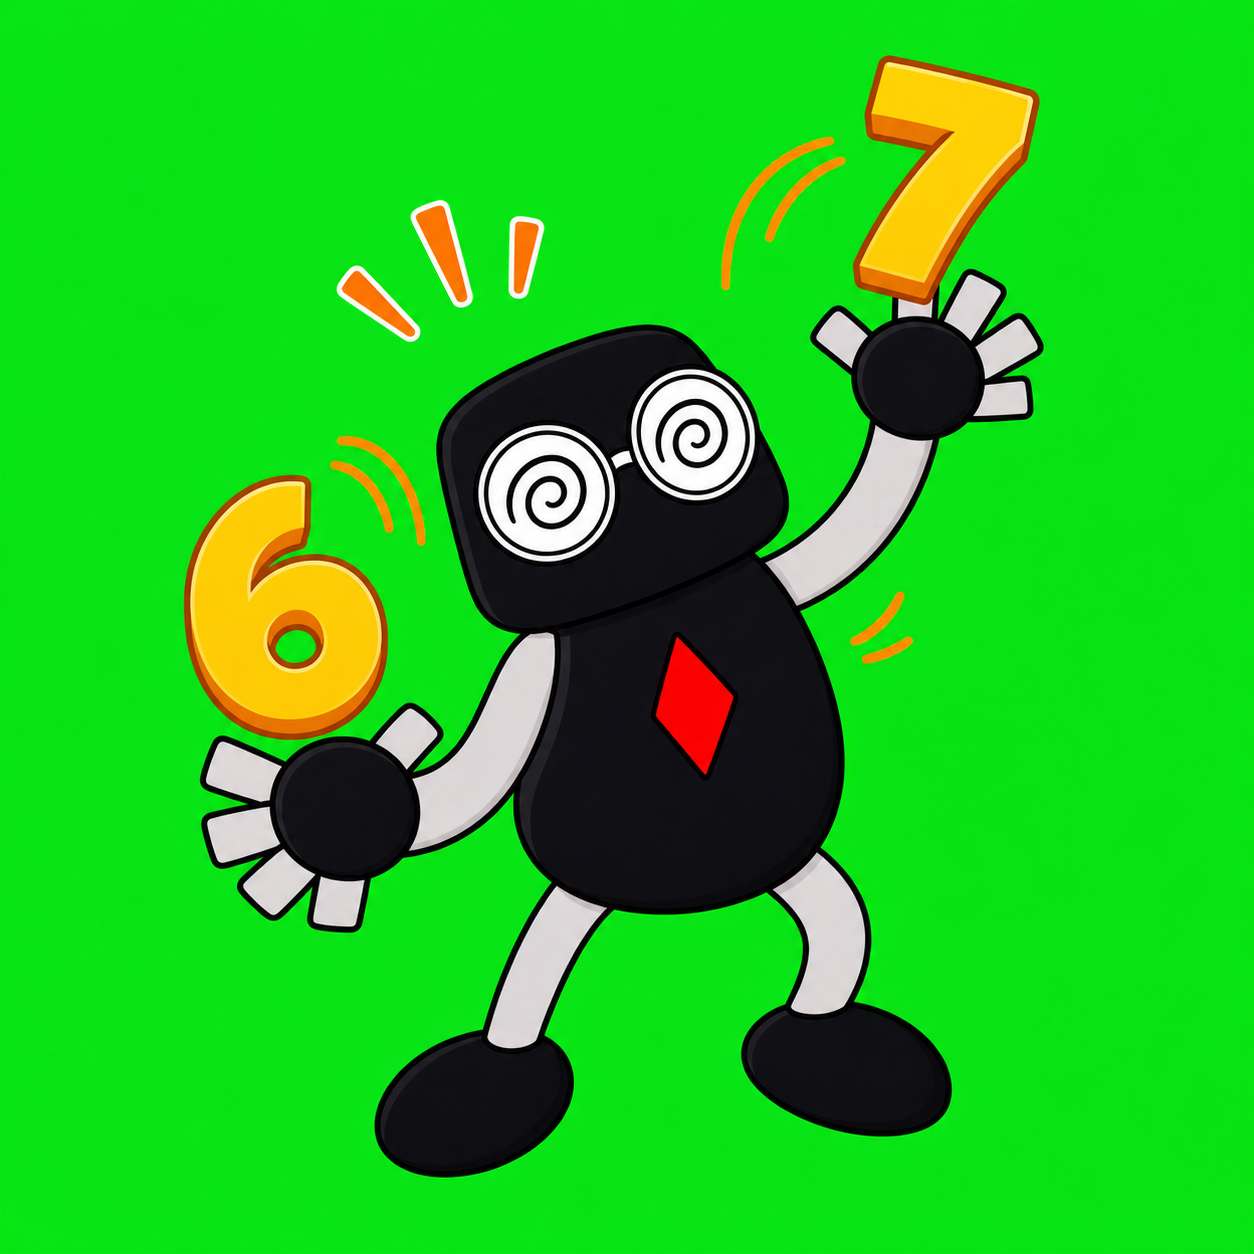
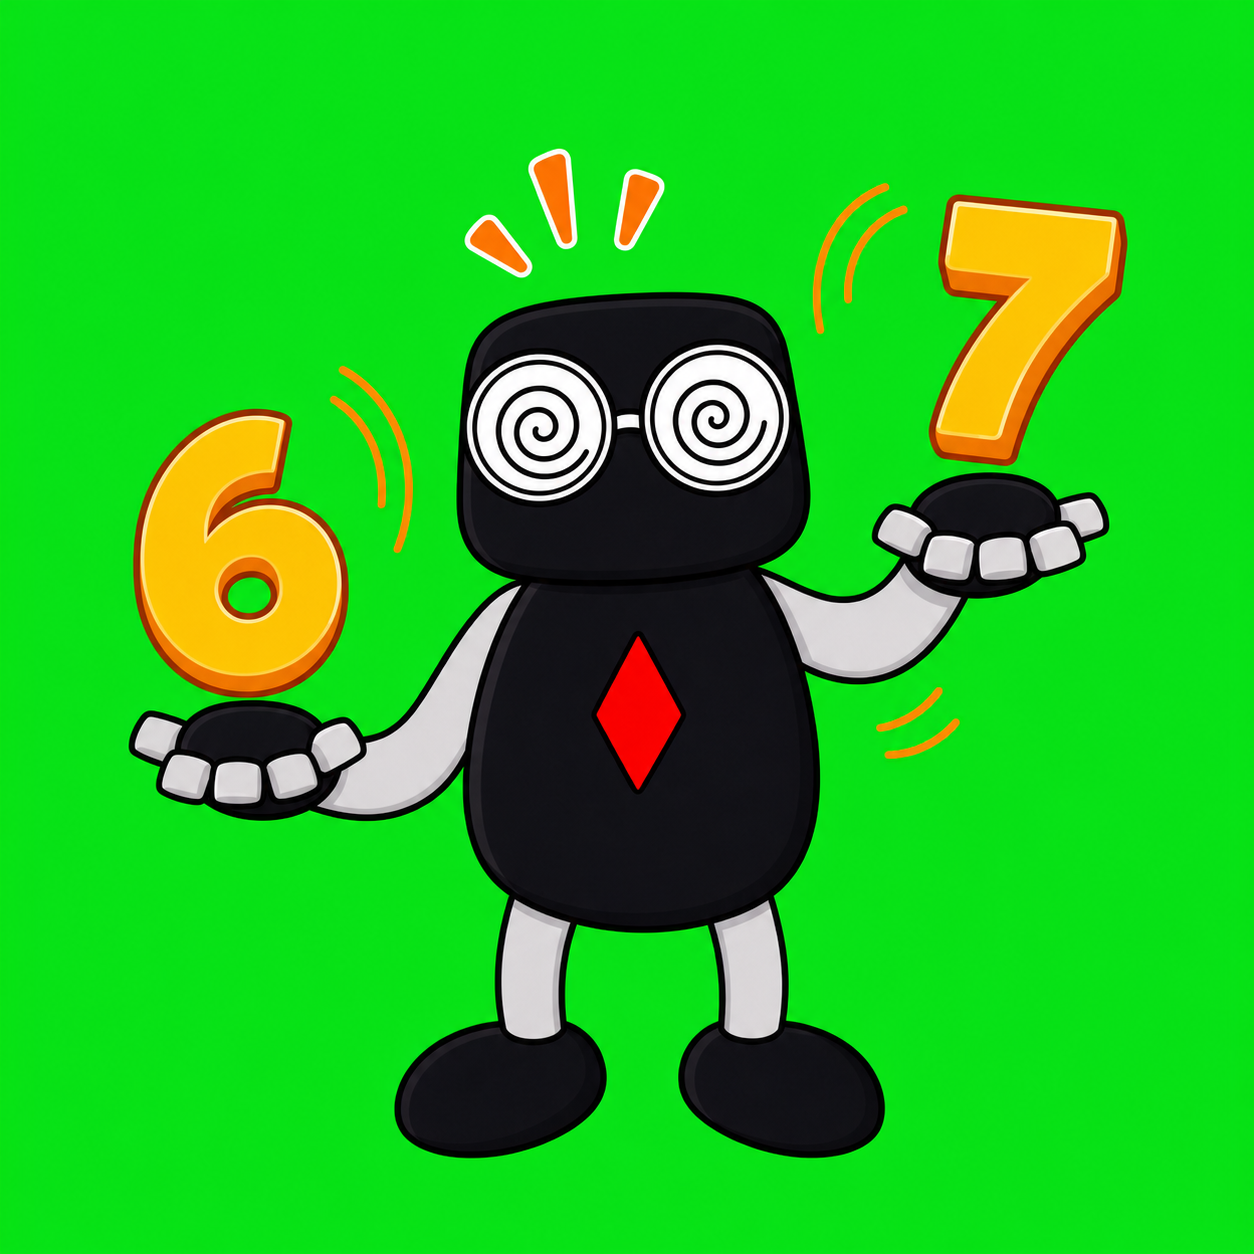
feat: refine sixseven palm-up candidate

Changed region(s): [[0.0933, 0.0311, 0.9019, 0.933], [0.2799, 0.8397, 0.4354, 0.9641]]

diff --git a/archive/generated-iterations/v1-size-blocky-full/NOTES.md b/archive/generated-iterations/v1-size-blocky-full/NOTES.md
@@ -20,4 +20,4 @@ Review notes:
 - `gasp` is still the copied candidate from `v1-size-blocky-fingers`; its hand count and scale are useful, but it still has unwanted internal arm crease lines.
 - `greetings` and `handraise` were updated after review so they no longer share the same silhouette: `greetings` uses a wider side-wave arm angle, while `handraise` uses a near-vertical raised arm and tip-toe/stretch posture.
 - `wrong` was updated after review to make the pose carry the meaning: both arms cross in front of the body, with the red X kept off to the side as emphasis.
-- `sixseven` was added as a 6-7 meme candidate: T Krobot juggles a `6` and `7` with hands at different levels, spiral glasses, and frantic motion marks.
+- `sixseven` was added as a 6-7 meme candidate: T Krobot juggles a `6` and `7` with hands at different levels, spiral glasses, and frantic motion marks. It was revised so T Krobot faces front and the fingers sit on the near/front edge of the palms, making the hands read as palms-up and outstretched.
